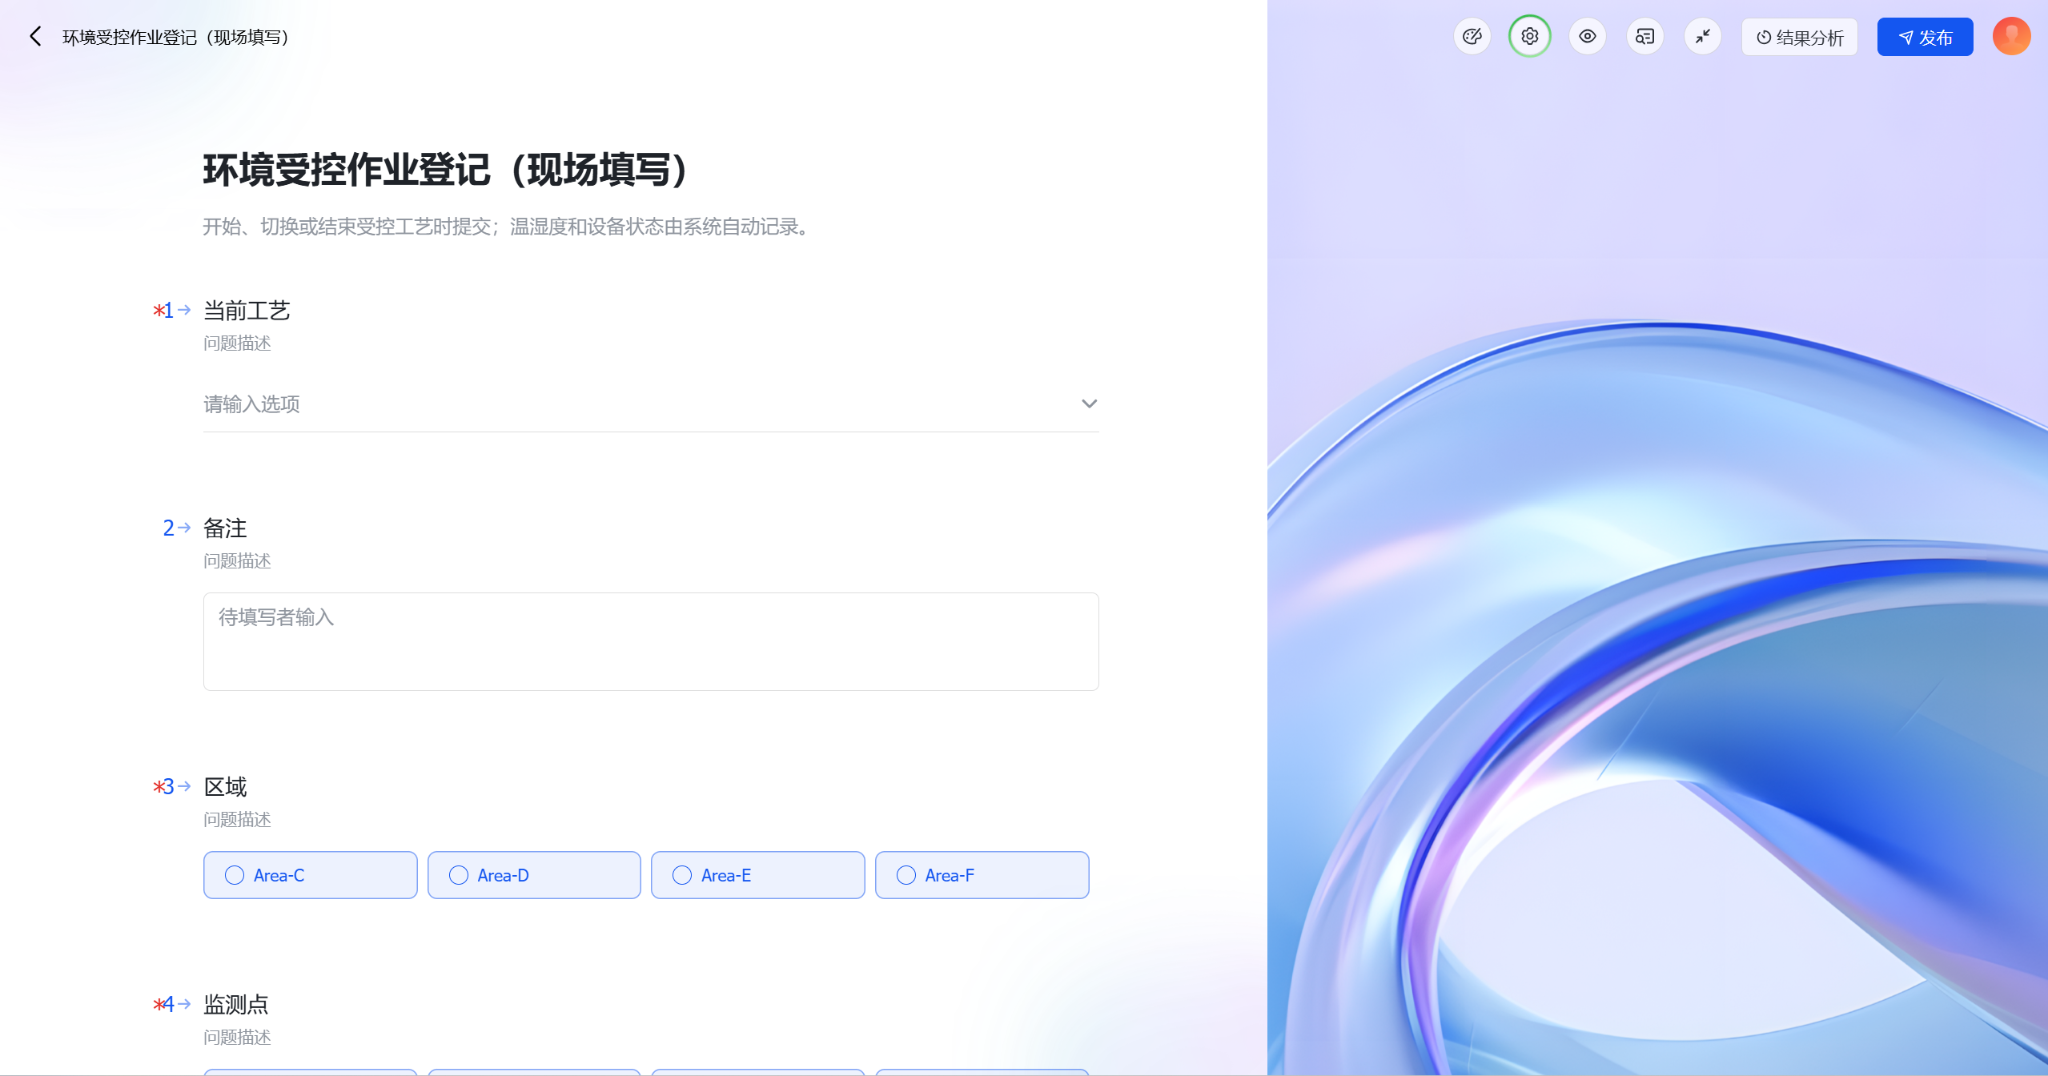
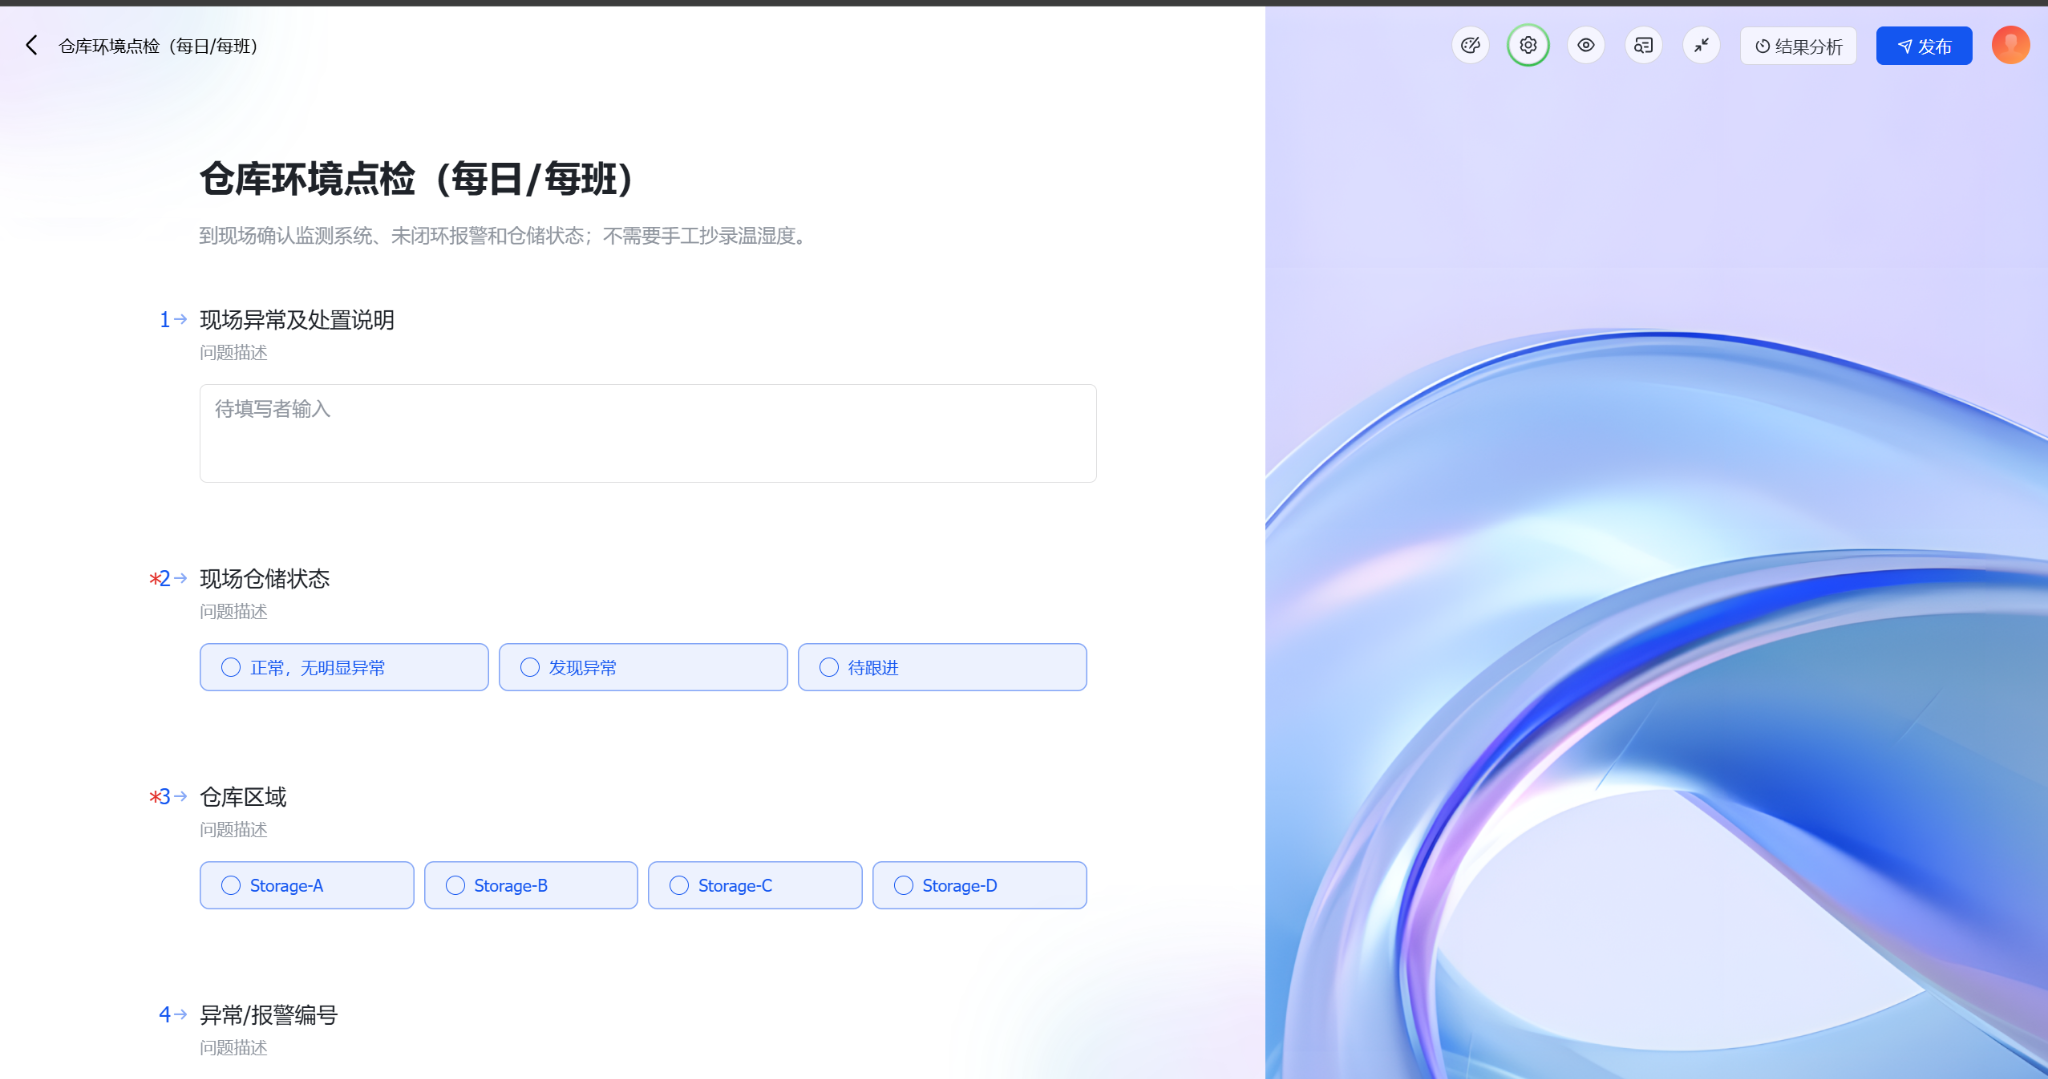
Replace duplicate form preview

diff --git a/README.md b/README.md
@@ -18,7 +18,7 @@
 | --- | --- |
 | ![Demo monitoring records](docs/images/bitable-records.png) | ![Demo dashboard](docs/images/dashboard.png) |
 
-| 现场作业登记 | 现场表单明细 |
+| 现场作业登记 | 仓库环境点检 |
 | --- | --- |
 | ![Field work log](docs/images/field-work-log.png) | ![Field work log detail](docs/images/field-work-log-detail.png) |
 
